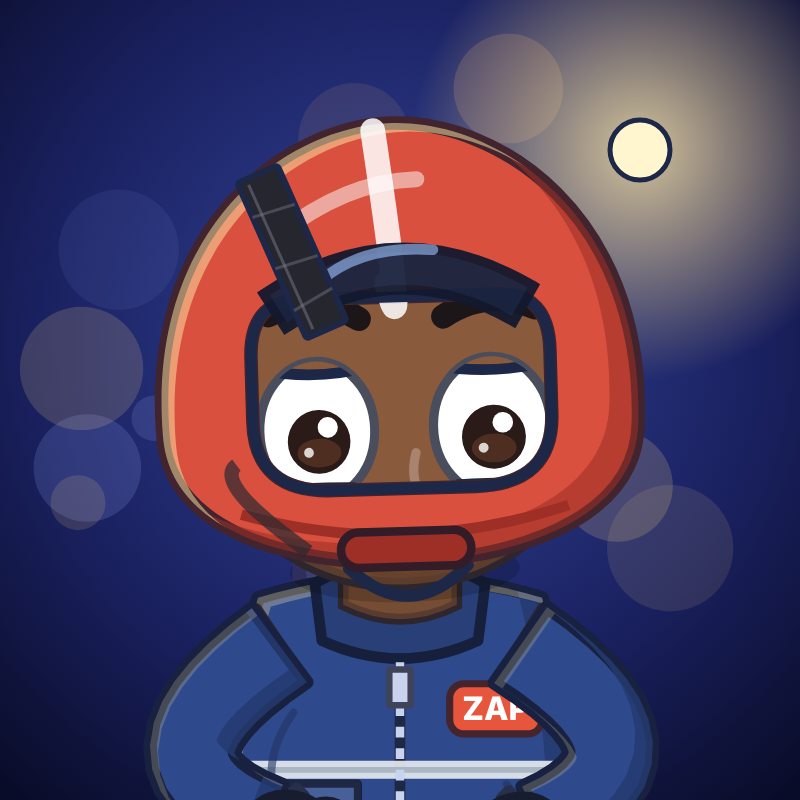
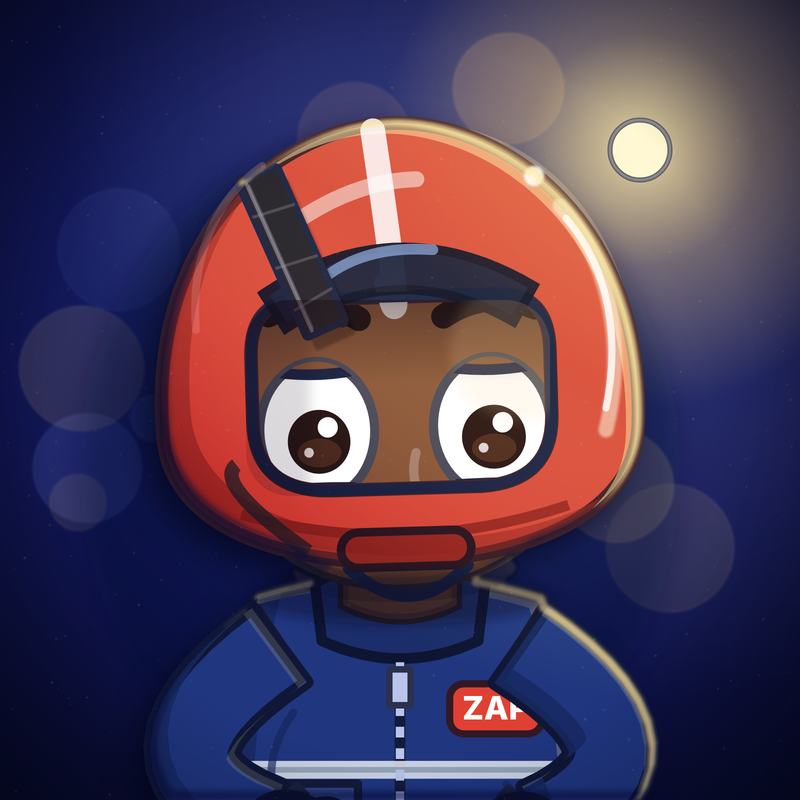
Foto de perfil refeita: mesma arte, luz do poste, sombreamento e brilhos
Claude-Session: https://claude.ai/code/session_01ViVfX2yGtM4pT3uqJvwcv2

diff --git a/producao/engine/brand.html b/producao/engine/brand.html
@@ -36,5 +36,54 @@ function banner(){
   s+=`<text x="${tx}" y="836" text-anchor="middle" font-family="Inter" font-weight="700" font-size="38" fill="#c9d2ff" stroke="#10163f" stroke-width="9" stroke-linejoin="round" paint-order="stroke">Histórias animadas do Nando, o motoboy</text>`;
   return `<svg xmlns="http://www.w3.org/2000/svg" width="${innerWidth}" height="${innerHeight}" viewBox="0 0 ${Wd} ${Hd}">${s}</svg>`;
 }
-function render(){ document.getElementById('r').innerHTML = K_==='banner'?banner():avatar(); }
+
+function avatar2(){
+  // mesmo desenho, mesmo capacete, mesmo fundo — com iluminação e sombreamento refeitos (luz do poste em cima à direita)
+  let s=`<defs>
+  <radialGradient id="ab" cx="0.5" cy="0.42" r="0.75"><stop offset="0" stop-color="#34459a"/><stop offset="0.6" stop-color="#1a2160"/><stop offset="1" stop-color="#090c28"/></radialGradient>
+  <radialGradient id="ag" cx="0.5" cy="0.5" r="0.5"><stop offset="0" stop-color="#ffe9a8" stop-opacity=".85"/><stop offset="0.45" stop-color="#ffd878" stop-opacity=".28"/><stop offset="1" stop-color="#ffd878" stop-opacity="0"/></radialGradient>
+  <filter id="bk" x="-50%" y="-50%" width="200%" height="200%"><feGaussianBlur stdDeviation="1.8"/></filter>
+  <filter id="bk2" x="-50%" y="-50%" width="200%" height="200%"><feGaussianBlur stdDeviation="1.4"/></filter>
+  <filter id="soft" x="-50%" y="-50%" width="200%" height="200%"><feGaussianBlur stdDeviation="14"/></filter>
+  <filter id="soft2" x="-50%" y="-50%" width="200%" height="200%"><feGaussianBlur stdDeviation="6"/></filter>
+  <filter id="char" filterUnits="userSpaceOnUse" x="0" y="0" width="800" height="800" color-interpolation-filters="sRGB">
+    <feGaussianBlur in="SourceAlpha" stdDeviation="14" result="sb"/><feOffset in="sb" dx="-12" dy="16" result="sbo"/><feFlood flood-color="#04061c" flood-opacity=".6"/><feComposite in2="sbo" operator="in" result="dsh"/>
+    <feMorphology in="SourceAlpha" operator="erode" radius="3" result="ai"/><feOffset in="ai" dx="-7" dy="6" result="o1"/><feComposite in="ai" in2="o1" operator="out" result="e1"/><feGaussianBlur in="e1" stdDeviation="1.6" result="e1b"/><feFlood flood-color="#ffe6a0" flood-opacity=".75"/><feComposite in2="e1b" operator="in" result="rim"/>
+    <feOffset in="ai" dx="10" dy="-9" result="o2"/><feComposite in="ai" in2="o2" operator="out" result="e2"/><feGaussianBlur in="e2" stdDeviation="3" result="e2b"/><feFlood flood-color="#0a1040" flood-opacity=".55"/><feComposite in2="e2b" operator="in" result="core"/>
+    <feMerge><feMergeNode in="dsh"/><feMergeNode in="SourceGraphic"/><feMergeNode in="core"/><feMergeNode in="rim"/></feMerge>
+  </filter>
+  <linearGradient id="shell" x1="0.85" y1="0.05" x2="0.15" y2="0.95"><stop offset="0" stop-color="#ffd9a0" stop-opacity=".3"/><stop offset="0.35" stop-color="#ffffff" stop-opacity="0"/><stop offset="1" stop-color="#2a0c28" stop-opacity=".4"/></linearGradient>
+  <radialGradient id="lampL" cx="0.82" cy="0.12" r="0.75"><stop offset="0" stop-color="#ffe9b0" stop-opacity=".55"/><stop offset="0.5" stop-color="#ffcf80" stop-opacity=".12"/><stop offset="1" stop-color="#0a0f40" stop-opacity=".42"/></radialGradient>
+  <radialGradient id="vg" cx="0.5" cy="0.5" r="0.72"><stop offset="0.62" stop-color="#05061a" stop-opacity="0"/><stop offset="1" stop-color="#05061a" stop-opacity=".4"/></radialGradient>
+  <linearGradient id="brimsh" x1="0" y1="0" x2="0" y2="1"><stop offset="0" stop-color="#1a0a14" stop-opacity=".42"/><stop offset="1" stop-color="#1a0a14" stop-opacity="0"/></linearGradient>
+  <clipPath id="opening"><rect x="246" y="300" width="304" height="196" rx="44"/></clipPath>
+  </defs><rect width="800" height="800" fill="url(#ab)"/>`;
+  // fundo: mesmos bokeh/lua/halo, com borda suave e anel de luz nos bokeh
+  for(let i=0;i<16;i++){ const cx=f(60+rnd(i*3.3)*680), cy=f(60+rnd(i*7.1)*520), r=f(18+rnd(i)*46), col=['#ffd88a','#9fb4ff','#ffb870'][i%3], op=0.08+rnd(i*5)*0.12;
+    s+=`<g filter="url(#bk)"><circle cx="${cx}" cy="${cy}" r="${r}" fill="${col}" opacity="${f(op)}"/></g><circle cx="${cx}" cy="${cy}" r="${r}" fill="none" stroke="${col}" stroke-width="2" opacity="${f(op*0.9)}" filter="url(#bk2)"/>`; }
+  s+=`<circle cx="640" cy="150" r="260" fill="url(#ag)"/><circle cx="640" cy="150" r="30" fill="#fff6cf" stroke="${NAVY}" stroke-width="5"/><circle cx="640" cy="150" r="30" fill="none" stroke="#fffbe8" stroke-width="2" opacity=".7" filter="url(#bk2)"/>`;
+  // sombra de contato/ambiente atrás do personagem
+  s+=`<ellipse cx="380" cy="470" rx="300" ry="340" fill="#050830" opacity=".35" filter="url(#soft)"/>`;
+  // personagem (mesma pose, mesmo capacete, mesma expressão) com luz vinda do poste, à direita
+  const ch=drawChar({cast:'nando',x:400,y:1140,s:3.55,flip:1,t:1,idle:0,pose:Object.assign({},POSE0,{headTilt:-2}),expr:Object.assign({},EXPR.smile,{browY:-4,browA:4,lid:0.04,mc:1.1}),look:[400,430],turn:0.1,helmet:1,light:{ox:1,oy:-0.8,rim:'#ffe9a8'}}).svg;
+  s+=`<g filter="url(#char)">${ch}`;
+  // fita isolante sobre a rachadura (mesma posição), agora com rachadura, brilho e sombra de contato
+  s+=`<g transform="translate(300,260) rotate(-24)"><rect x="-22" y="-80" width="44" height="170" rx="3" fill="#000" opacity=".28" filter="url(#bk2)"/></g>`+tape(292,252,-24,170,44);
+  s+=`<g transform="translate(292,252) rotate(-24)"><rect x="-22" y="-85" width="44" height="170" rx="3" fill="url(#tp)" opacity=".0"/><path d="M-14,-80 L-14,80" stroke="#9a9aae" stroke-width="3.5" opacity=".6" stroke-linecap="round"/><path d="M-22,-85 q3,-6 8,-2 M22,85 q-3,6 -8,2" stroke="#26262e" stroke-width="3" fill="none"/></g>`;
+  // brilhos do casco: faixa especular curva à direita, reflexo da janela à esquerda e ponto de brilho
+  s+=`<path d="M560,206 C612,262 626,350 606,430" fill="none" stroke="#fff6dc" stroke-width="15" stroke-linecap="round" opacity=".55" filter="url(#bk2)"/><path d="M566,218 C610,268 620,340 606,408" fill="none" stroke="#ffffff" stroke-width="7" stroke-linecap="round" opacity=".8"/>`;
+  s+=`<circle cx="534" cy="176" r="10" fill="#fff" opacity=".9" filter="url(#bk2)"/><circle cx="534" cy="176" r="4.5" fill="#fff"/>`;
+  s+=`<path d="M196,330 C190,260 214,200 262,166" fill="none" stroke="#ffd9d0" stroke-width="8" stroke-linecap="round" opacity=".18"/>`;
+  // sombreamento do casco (gradiente de forma) — luz em cima à direita, sombra embaixo à esquerda
+  s+=`<path d="M400,120 C560,120 642,250 640,400 C638,500 560,552 400,556 C240,552 158,500 160,400 C158,250 240,120 400,120Z" fill="url(#shell)" style="mix-blend-mode:soft-light"/>`;
+  // dentro da abertura do capacete: sombra da aba sobre os olhos + sombra lateral (profundidade do rosto)
+  s+=`<g clip-path="url(#opening)"><rect x="240" y="296" width="320" height="86" fill="url(#brimsh)"/><rect x="240" y="296" width="70" height="210" fill="#120a1e" opacity=".14" filter="url(#soft2)"/><circle cx="520" cy="350" r="70" fill="#ffd9a0" opacity=".16" filter="url(#soft2)"/></g>`;
+  s+=`</g>`;
+  s+=`<ellipse cx="402" cy="598" rx="150" ry="26" fill="#070a2c" opacity=".4" filter="url(#soft2)"/>`;
+  // luz ambiente do poste sobre tudo + vinheta + grão leve
+  s+=`<rect width="800" height="800" fill="url(#lampL)" style="mix-blend-mode:soft-light"/><rect width="800" height="800" fill="url(#vg)"/>`;
+  for(let i=0;i<260;i++) s+=`<circle cx="${f(rnd(i*2.3)*800)}" cy="${f(rnd(i*5.1)*800)}" r="${f(0.6+rnd(i)*0.9)}" fill="#fff" opacity="${f(0.04+rnd(i*7)*0.05)}"/>`;
+  return `<svg xmlns="http://www.w3.org/2000/svg" width="${innerWidth}" height="${innerHeight}" viewBox="0 0 800 800">${s}</svg>`;
+}
+function render(){ document.getElementById('r').innerHTML = K_==='banner'?banner():(K_==='avatar2'?avatar2():avatar()); }
 </script></body></html>
